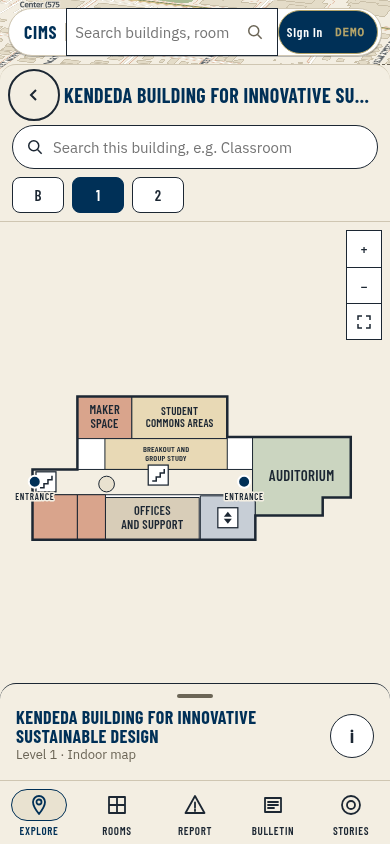
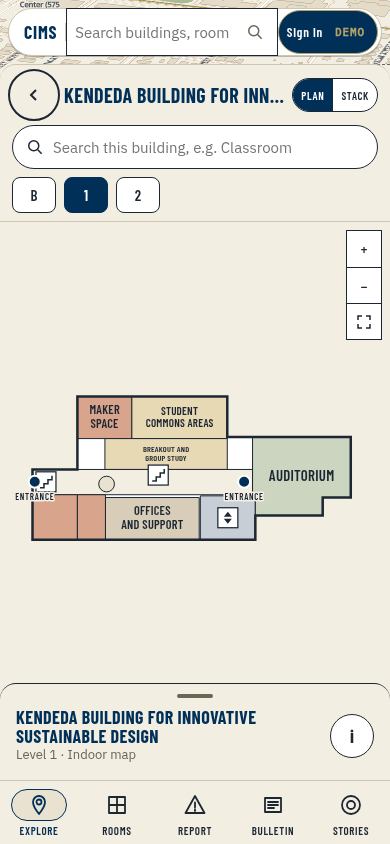
docs(indoor): INDOOR.md and final screenshots of the polished screen

diff --git a/docs/design/INDOOR.md b/docs/design/INDOOR.md
@@ -1,0 +1,65 @@
+<!-- summary: Indoor screen polish (2026-11-14): concept A on desktop, D on phones, B as the Stack view; what changed, how it was verified, what is left. -->
+# Indoor screen
+
+The building screen (`src/indoor/`) after the hackathon polish of 2026-11-14. References:
+[`indoor-concept-A-clean-plan`](references/indoor-concept-A-clean-plan.jpg) (desktop),
+[`indoor-concept-D-mobile`](references/indoor-concept-D-mobile.jpg) (phones),
+[`indoor-concept-C-directory-steps`](references/indoor-concept-C-directory-steps.jpg) (numbered steps only) and
+[`indoor-concept-B-exploded-stack`](references/indoor-concept-B-exploded-stack.jpg) (Stack view). Before:
+[`indoor-current-2026-11-14`](references/indoor-current-2026-11-14.jpg). After: [`screenshots/indoor/`](screenshots/indoor/INDEX.md).
+The mockups' content (room codes, capacities, equipment, times) is invented and was not copied.
+
+## What changed
+
+- **Header (A):** "Back to map", breadcrumb `Campus / <Building> / <Level>`, title in Barlow caps, aliases under it,
+  a pill "Search this building" field (examples come from the building's own data) and the Plan | Stack toggle.
+- **Hero plan (A):** fills the frame (home view frames the drawn building, the same frame for every level so they
+  line up). Square level rail on the left (active = navy), zoom +/−/reset top right, legend of the room types
+  present on that level under the plan, "Schematic, not to scale" and a compass bottom right.
+  The compass only shows when the data proves orientation (a west and an east entrance with west drawn left:
+  Kendeda); CULC has no compass because its data doesn't say where north is.
+- **Plan rendering:** flat fills from `--room-*` tokens (service, utility and outdoor use `--paper-2`, `--paper`
+  and `--map-campus`; gold is only the selected room), ink walls, stairs and elevator glyphs at the graph's
+  connector nodes, entrances as navy dots. Labels show the name plus the real room number only when the data has
+  one; they are fitted per zoom (wrapped, shrunk, the number wins when a numbered room is tight, hidden below
+  8 px) and step aside from glyphs, so they never spill out of their room.
+- **Route (A + C):** dashed `--route` line, gold "You enter here" tag at an entrance start, numbered circles at
+  each step from `route.ts` that match the numbered list (steps that coincide at the current zoom share one
+  marker, e.g. "2–4"). Clicking a step highlights its stretch and switches to its level. No distances: `route.ts`
+  doesn't compute them. `Step.node` (new) says where each step happens.
+- **Room card (A):** name, real room number ("Unknown" when there is none), capacity only when the schematic has
+  it, demo features and "Free until …" from the room-finder seed under a **Demo data** tag, navy
+  **Book this room** (only for bookable demo rooms) and outlined **Report an issue**, then the directions.
+  Book opens the existing reservations panel on that room (`src/indoor/handoff.ts`, a 2-line hook in
+  `Shell.tsx`, the rooms panel opens on the room with "All rooms here" to widen). Report opens the existing
+  report flow prefilled with building, floor and room (report selection id `building|floor|room`).
+- **Phones ≤ 767 px (D):** back chevron + title + toggle, search pill, level pills in a row, full-width plan and
+  a bottom sheet: peek with the building name and an info button (spaces, start point, building info), the
+  room card with Book / Report and "Directions · N steps", which enters a step mode "Step k of N" with Previous /
+  Next that highlights that stretch on the plan. Tap the grip to collapse the card.
+- **Stack view (B), enabled:** `STACK_VIEW_ENABLED = true` in `StackView.tsx`; `?indoor=stack` opens it directly.
+  Every drawn level is a plate in one CSS 3D scene (perspective, `rotateX(55deg) rotateZ(-35deg)`,
+  `translateZ` per level); the active level in full colour, the others ink outlines over light paper; labels with
+  space counts from the data; click a plate (or its label, or a level button) to make it active. The route draws
+  on each plate and a dashed line joins the plates at the connector nodes the route uses. Labels and vertical
+  links are flat SVG placed from measured 3D anchors. No transitions at all (so reduced motion is respected),
+  no WebGL, no new dependencies.
+- Kept: door sticker links (`?in=culc&door=e1-n` focuses the search), room search across levels with `/`,
+  keyboard selection of rooms, pan / wheel zoom, Esc, Back to map, building facts, deep links from the rooms
+  panel and search (`?select=room:<building>:<space>`), start point change / pick on the plan, step-free routing.
+
+## Verified
+
+- `npx tsc --noEmit` and `npm run build` pass.
+- `shoot.mjs` at 1440, 1280, 390 and 360 px for `/?in=kendeda`, `/?in=culc&door=e1-n`, `/?in=kendeda&indoor=stack`,
+  a routed Kendeda room in Stack, and a routed CULC room (242): no horizontal overflow, no console errors.
+  Two look-and-fix rounds per phase against A, D and B (route framing, label collisions, step markers,
+  compact phone card, stack labels and transparency).
+
+## Left / known gaps
+
+- Not screenshotted (the shooter only loads URLs): the phone step mode, the sheet collapse, Book → reservations
+  panel and Report → report flow. They were wired and type-checked but only exercised by reading the code.
+- Plan pan is one-finger drag plus buttons; there is no pinch zoom on phones (there wasn't before either).
+- In the Stack view on phones with the room card open the scene is small; collapse the sheet to see it.
+- CULC entrance names say "upper/lower exit", not a direction, so there's no compass there.

diff --git a/docs/design/INDEX.md b/docs/design/INDEX.md
@@ -13,6 +13,7 @@ Visual direction and UI references: the chosen "survey map" style, tokens and ho
 
 - [`APP-SHELL.md`](APP-SHELL.md): Map-first app shell (Google Maps-like): thin left rail, floating search pill and POI chips, floating cards; m…
 - [`DESIGN-DIRECTION.md`](DESIGN-DIRECTION.md): Chosen visual direction ("survey map"): tokens, type, map styling rules and how to build it in MapLibre.
+- [`INDOOR.md`](INDOOR.md): Indoor screen polish (2026-11-14): concept A on desktop, D on phones, B as the Stack view; what changed, how…
 - [`STORIES.md`](STORIES.md): How stories work (live-only capture, GPS from Esteban's geolocation.ts, heat map) and what a real backend mus…
 - [`styleguide.html`](styleguide.html): HTML entry · CIMS Style Guide
 
